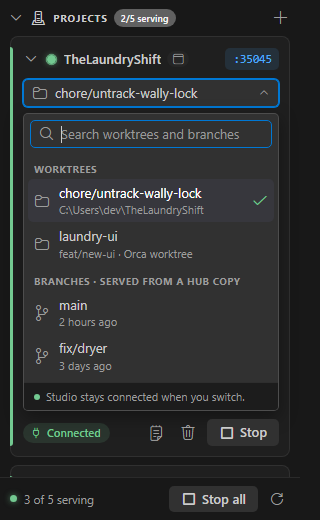
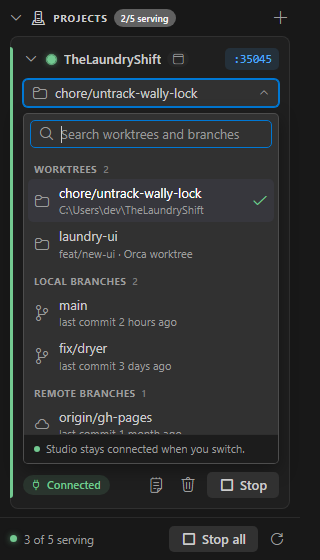
feat(Panel): branch picker lists local and remote branches separately, like Source Control
Worktrees, then Local branches, then Remote branches (cloud icon), each
with a count; branches show when they last had a commit. Release 0.14.1.

diff --git a/src/webview/main.ts b/src/webview/main.ts
@@ -139,6 +139,24 @@ function notices(slot: SlotView): string {
 	return rows.join("");
 }
 
+/** "3 days ago" for a unix time in seconds. */
+function ago(seconds: number): string {
+	const minutes = Math.max(0, Math.round((Date.now() / 1000 - seconds) / 60));
+	const steps: [number, string][] = [
+		[60 * 24 * 365, "year"],
+		[60 * 24 * 30, "month"],
+		[60 * 24 * 7, "week"],
+		[60 * 24, "day"],
+		[60, "hour"],
+		[1, "minute"],
+	];
+	for (const [size, unit] of steps) {
+		const count = Math.floor(minutes / size);
+		if (count >= 1) return `${count} ${unit}${count === 1 ? "" : "s"} ago`;
+	}
+	return "just now";
+}
+
 function picker(slot: SlotView): string {
 	const open = ui.picker;
 	if (!open || open.id !== slot.id) return "";
@@ -153,17 +171,25 @@ function picker(slot: SlotView): string {
 		const isCurrent = (option: TargetOption) =>
 			(option.target.kind === "worktree" && slot.target.kind === "worktree" && option.target.path.toLowerCase() === slot.target.path.toLowerCase()) ||
 			(option.target.kind === "branch" && slot.target.kind === "branch" && option.target.ref === slot.target.ref);
-		const list = (kind: "worktree" | "branch", heading: string) => {
-			const rows = matches.filter(({ option }) => option.target.kind === kind);
+		// Like Source Control's branch picker: worktrees, then local branches, then remote ones.
+		const sectionOf = (option: TargetOption) =>
+			option.target.kind === "worktree" ? "worktree" : option.target.ref.startsWith("refs/remotes/") ? "remote" : "local";
+		const list = (section: "worktree" | "local" | "remote", heading: string, iconName: string, title: string) => {
+			const rows = matches.filter(({ option }) => sectionOf(option) === section);
 			if (rows.length === 0) return "";
-			return `<div class="list-heading">${escape(heading)}</div>${rows
-				.map(
-					({ option, index }) =>
-						`<button class="list-item${isCurrent(option) ? " current" : ""}" data-action="pick" data-index="${index}">${icon(kind === "worktree" ? "folder" : "git-branch")}<span class="grow"><span class="label">${escape(option.label)}</span><span class="sub">${escape(option.description)}</span></span>${isCurrent(option) ? icon("check") : ""}</button>`,
-				)
+			return `<div class="list-heading" title="${escape(title)}">${escape(heading)}<span class="list-count">${rows.length}</span></div>${rows
+				.map(({ option, index }) => {
+					const sub = section === "worktree" || !option.committedAt ? option.description : `last commit ${ago(option.committedAt)}`;
+					return `<button class="list-item${isCurrent(option) ? " current" : ""}" data-action="pick" data-index="${index}">${icon(iconName)}<span class="grow"><span class="label">${escape(option.label)}</span><span class="sub">${escape(sub)}</span></span>${isCurrent(option) ? icon("check") : ""}</button>`;
+				})
 				.join("")}`;
 		};
-		body = matches.length === 0 ? `<div class="muted pad">Nothing matches “${escape(open.search)}”.</div>` : list("worktree", "Worktrees") + list("branch", "Branches · served from a Hub copy");
+		body =
+			matches.length === 0
+				? `<div class="muted pad">Nothing matches “${escape(open.search)}”.</div>`
+				: list("worktree", "Worktrees", "folder", "Folders checked out on this repo; served in place") +
+					list("local", "Local branches", "git-branch", "Branches on this machine with no worktree; served from a Hub copy") +
+					list("remote", "Remote branches", "cloud", "Branches on the remote with no local branch of the same name; served from a Hub copy");
 	}
 	return `<div class="picker">
 		<div class="search">${icon("search")}<input data-key="search-${escape(slot.id)}" data-input="search" placeholder="Search worktrees and branches" value="${escape(open.search)}" spellcheck="false"></div>

diff --git a/tools/panel-preview.html b/tools/panel-preview.html
@@ -140,8 +140,9 @@ if (params.get("empty") === "1") { state.slots = []; state.groups = []; }
 const options = [
 	{ target: { kind: "worktree", path: "C:\\Users\\dev\\TheLaundryShift" }, label: "chore/untrack-wally-lock", description: "C:\\Users\\dev\\TheLaundryShift", branch: "chore/untrack-wally-lock", isPrimary: true, committedAt: 0 },
 	{ target: { kind: "worktree", path: "C:\\orca\\laundry-ui" }, label: "laundry-ui", description: "feat/new-ui · Orca worktree", branch: "feat/new-ui", isPrimary: false, committedAt: 0 },
-	{ target: { kind: "branch", ref: "refs/heads/main" }, label: "main", description: "2 hours ago", branch: "main", isPrimary: false, committedAt: 0 },
-	{ target: { kind: "branch", ref: "refs/heads/fix/dryer" }, label: "fix/dryer", description: "3 days ago", branch: "fix/dryer", isPrimary: false, committedAt: 0 },
+	{ target: { kind: "branch", ref: "refs/heads/main" }, label: "main", description: "branch · no worktree", branch: "main", isPrimary: false, committedAt: Date.now() / 1000 - 7200 },
+	{ target: { kind: "branch", ref: "refs/heads/fix/dryer" }, label: "fix/dryer", description: "branch · no worktree", branch: "fix/dryer", isPrimary: false, committedAt: Date.now() / 1000 - 3 * 86400 },
+	{ target: { kind: "branch", ref: "refs/remotes/origin/gh-pages" }, label: "origin/gh-pages", description: "remote branch · no worktree", branch: "origin/gh-pages", isPrimary: false, committedAt: Date.now() / 1000 - 40 * 86400 },
 ];
 let stored = { v: 2, collapsed: { "card:a": false, "card:b": false, "card:c": false, "card:d": false, settings: params.get("settings") === "1" ? false : true }, closedGroups: [] };
 window.acquireVsCodeApi = () => ({

diff --git a/src/common/api.ts b/src/common/api.ts
@@ -7,7 +7,7 @@
 export const SERVICE_PORT = 34870;
 /** The port range when rojoHub.portRange is not set; package.json's setting default must match. */
 export const DEFAULT_PORT_RANGE = "34873-35872";
-export const SERVICE_VERSION = "0.14.0";
+export const SERVICE_VERSION = "0.14.1";
 
 /*
 	Where a slot's files come from. A worktree is served in place, so edits made

diff --git a/media/panel.css b/media/panel.css
@@ -560,6 +560,13 @@ code {
 	text-transform: uppercase;
 }
 
+.list-heading .list-count {
+	margin-left: 6px;
+	font-weight: 600;
+	letter-spacing: 0;
+	opacity: 0.7;
+}
+
 .list-item {
 	display: flex;
 	align-items: center;

diff --git a/docs/how-it-works.md b/docs/how-it-works.md
@@ -2,7 +2,7 @@
 
 The complete description of Rojo-Hub as built: every feature, command and setting, what happens
 underneath, where files live, and the known limits. It is written to be the source for user
-documentation. Version 0.14.0, 2026-09-27. For why each design choice was made, with the
+documentation. Version 0.14.1, 2026-09-27. For why each design choice was made, with the
 measurements behind it, see [`specs/001-rojo-hub-foundation.md`](../specs/001-rojo-hub-foundation.md).
 
 ## Contents
@@ -130,8 +130,10 @@ card:
 - the **port** (`:35045`) at the top right, which copies `localhost:35045` when clicked; it shows a
   copy icon on hover and a green tick for a moment after copying;
 - **what it serves**: a folder icon for a worktree, a branch icon for a branch. Clicking it opens
-  the branch picker inside the card: a search box, then *Worktrees* (under Orca's names) and
-  *Branches*, with the current one ticked. Clicking one switches; Enter picks the first match,
+  the branch picker inside the card: a search box, then, like Source Control's branch picker,
+  *Worktrees* (under Orca's names), *Local branches* and *Remote branches* (a cloud icon; only those
+  with no local branch of the same name), each with how many it holds. Branches show when they last
+  had a commit. The current one is ticked. Clicking one switches; Enter picks the first match,
   Escape closes it. Studio stays connected;
 - **warnings** (yellow) and **errors** (red), in full;
 - a bottom row: a coloured **status pill** (*Connected* (Studio is connected), *Serving* (waiting for

diff --git a/CLAUDE.md b/CLAUDE.md
@@ -12,7 +12,7 @@ npm run typecheck
 npm test              # build, load the bundles (smoke), unit + end-to-end against a real rojo 7.7 and a temp git repo
 npm run build         # esbuild -> dist/extension.js, dist/service.js
 npm run package       # rojo-hub-<version>.vsix
-code --install-extension rojo-hub-0.14.0.vsix --force   # repeat with --profile "Roblox" and --profile "Roblox-ScaryPlay"
+code --install-extension rojo-hub-0.14.1.vsix --force   # repeat with --profile "Roblox" and --profile "Roblox-ScaryPlay"
 node tools/live-switch-headless.mjs verbatim|plain   # the original measurement
 ```
 

diff --git a/README.md b/README.md
@@ -22,7 +22,7 @@ Full description of every feature, setting and file, for users and for writing u
 ```sh
 npm install
 npm run package
-code --install-extension rojo-hub-0.14.0.vsix --force   # repeat with --profile "Roblox" and --profile "Roblox-ScaryPlay"
+code --install-extension rojo-hub-0.14.1.vsix --force   # repeat with --profile "Roblox" and --profile "Roblox-ScaryPlay"
 ```
 
 ## Develop
